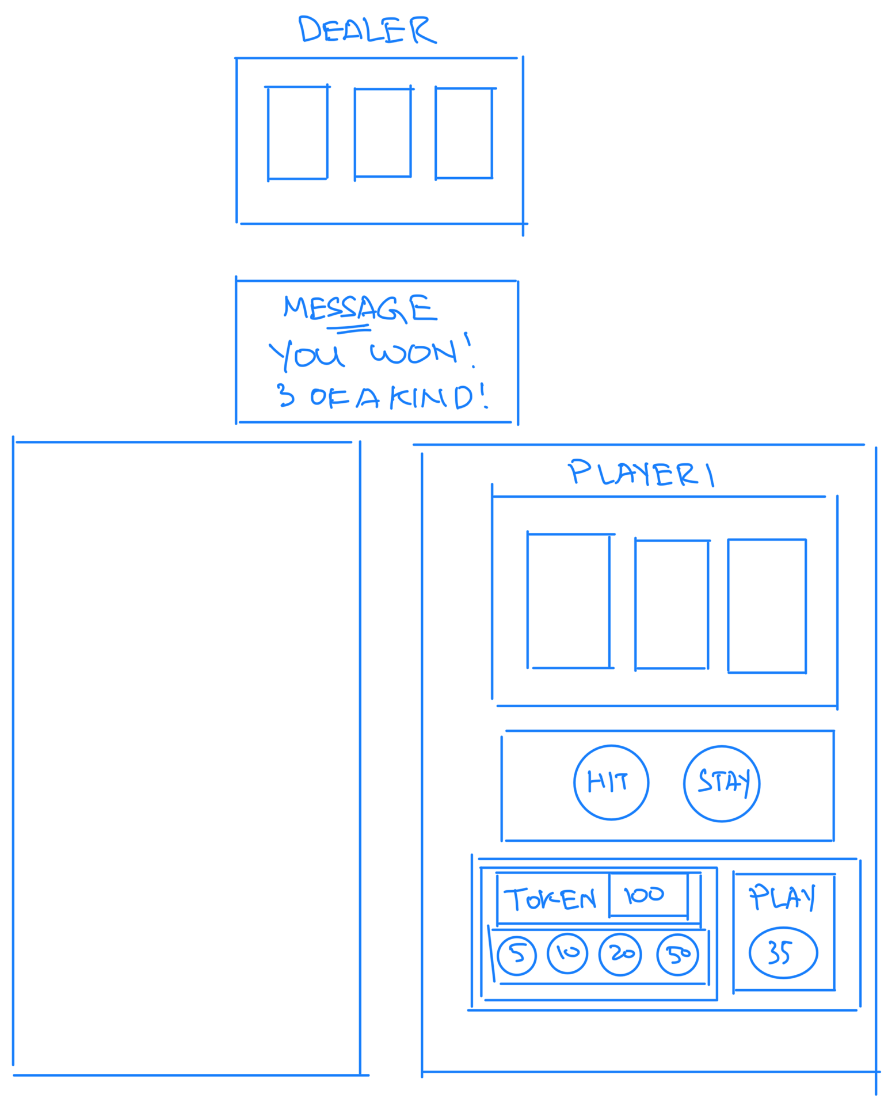
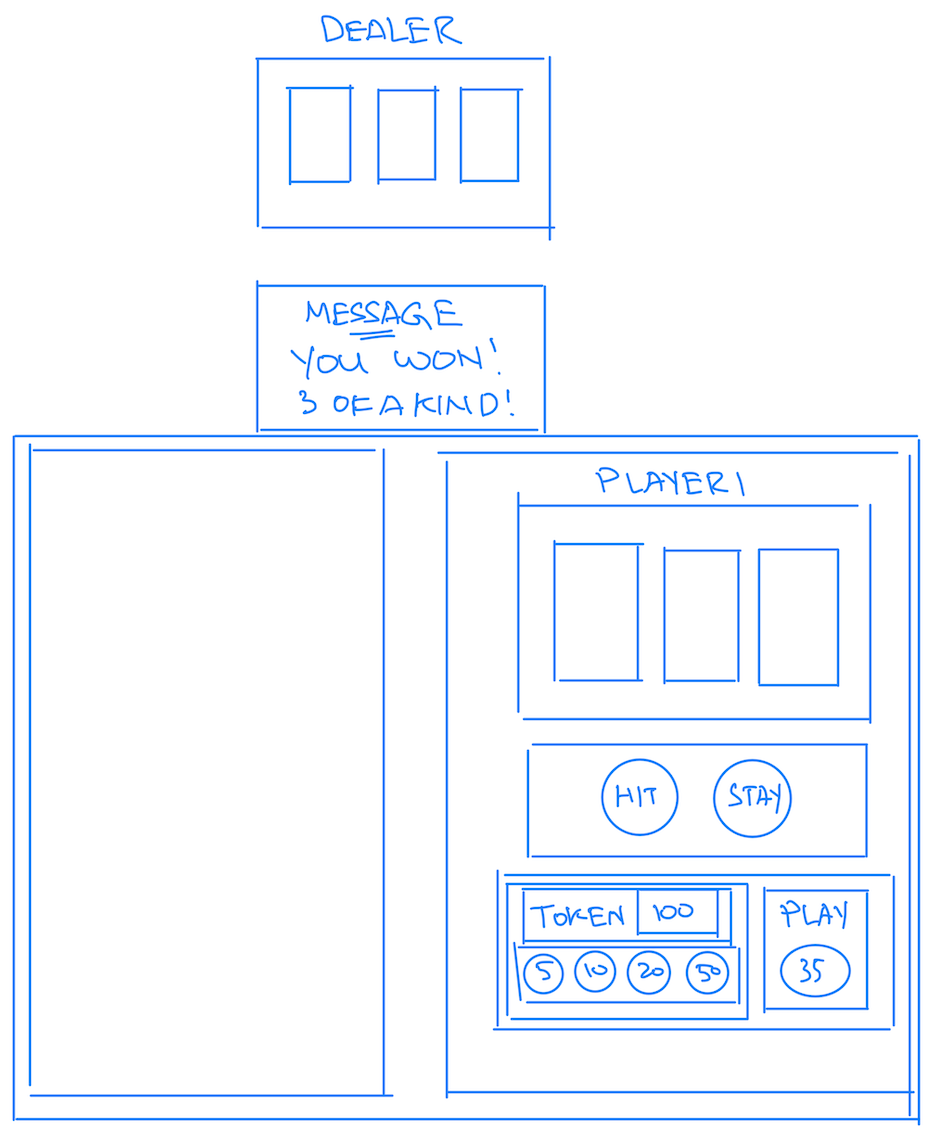
Updated picture

Changed region(s): [[0.0, 0.2439, 1.0, 1.0], [0.2427, 0.0, 0.6067, 0.2135]]

diff --git a/index.html b/index.html
@@ -33,20 +33,20 @@
           <div class="cards" id="player1card3">1 Spades</div>
         </div>
         <div id="inGameButtons">
-          <button class="btn btn-primary" id="hitButton">HIT</button>
-          <button class="btn btn-primary" id="stayButton">STAY</button>
+          <button class="btn btn-primary" id="player1hitButton">HIT</button>
+          <button class="btn btn-primary" id="player1stayButton">STAY</button>
         </div>
         <div id="outGameButtons">
           <div id="leftDisplay">
             <div id="token">
               <p>Tokens:</p>
-              <label id="tokenDisplay">123</label>
+              <label id="player1tokenDisplay">123</label>
             </div>
             <div id="coinsSelections">
-              <button class="btn btn-primary" id="coin5">5</button>
-              <button class="btn btn-primary" id="coin10">10</button>
-              <button class="btn btn-primary" id="coin20">20</button>
-              <button class="btn btn-primary" id="coin50">50</button>
+              <button class="btn btn-primary" id="player1coin5">5</button>
+              <button class="btn btn-primary" id="player1coin20">20</button>
+              <button class="btn btn-primary" id="player1coin10">10</button>
+              <button class="btn btn-primary" id="player1coin50">50</button>
             </div>
           </div>
           <div id="play">
@@ -63,20 +63,20 @@
           <div class="cards" id="player2card3">1 Spades</div>
         </div>
         <div id="inGameButtons">
-          <button class="btn btn-primary" id="hitButton">HIT</button>
-          <button class="btn btn-primary" id="stayButton">STAY</button>
+          <button class="btn btn-primary" id="player2hitButton">HIT</button>
+          <button class="btn btn-primary" id="player2stayButton">STAY</button>
         </div>
         <div id="outGameButtons">
           <div id="leftDisplay">
             <div id="token">
               <p>Tokens:</p>
-              <label id="tokenDisplay">123</label>
+              <label id="player2tokenDisplay">123</label>
             </div>
             <div id="coinsSelections">
-              <button class="btn btn-primary" id="coin5">5</button>
-              <button class="btn btn-primary" id="coin10">10</button>
-              <button class="btn btn-primary" id="coin20">20</button>
-              <button class="btn btn-primary" id="coin50">50</button>
+              <button class="btn btn-primary" id="player2coin5">5</button>
+              <button class="btn btn-primary" id="player2coin10">10</button>
+              <button class="btn btn-primary" id="player2coin20">20</button>
+              <button class="btn btn-primary" id="p[layer2coin50">50</button>
             </div>
           </div>
           <div id="play">

diff --git a/style.css b/style.css
@@ -65,6 +65,10 @@ body {
   border: 10px solid black;
 }
 
+#token {
+  display: flex;
+}
+
 #coinsSelections {
   display: flex;
   gap: 10px;
